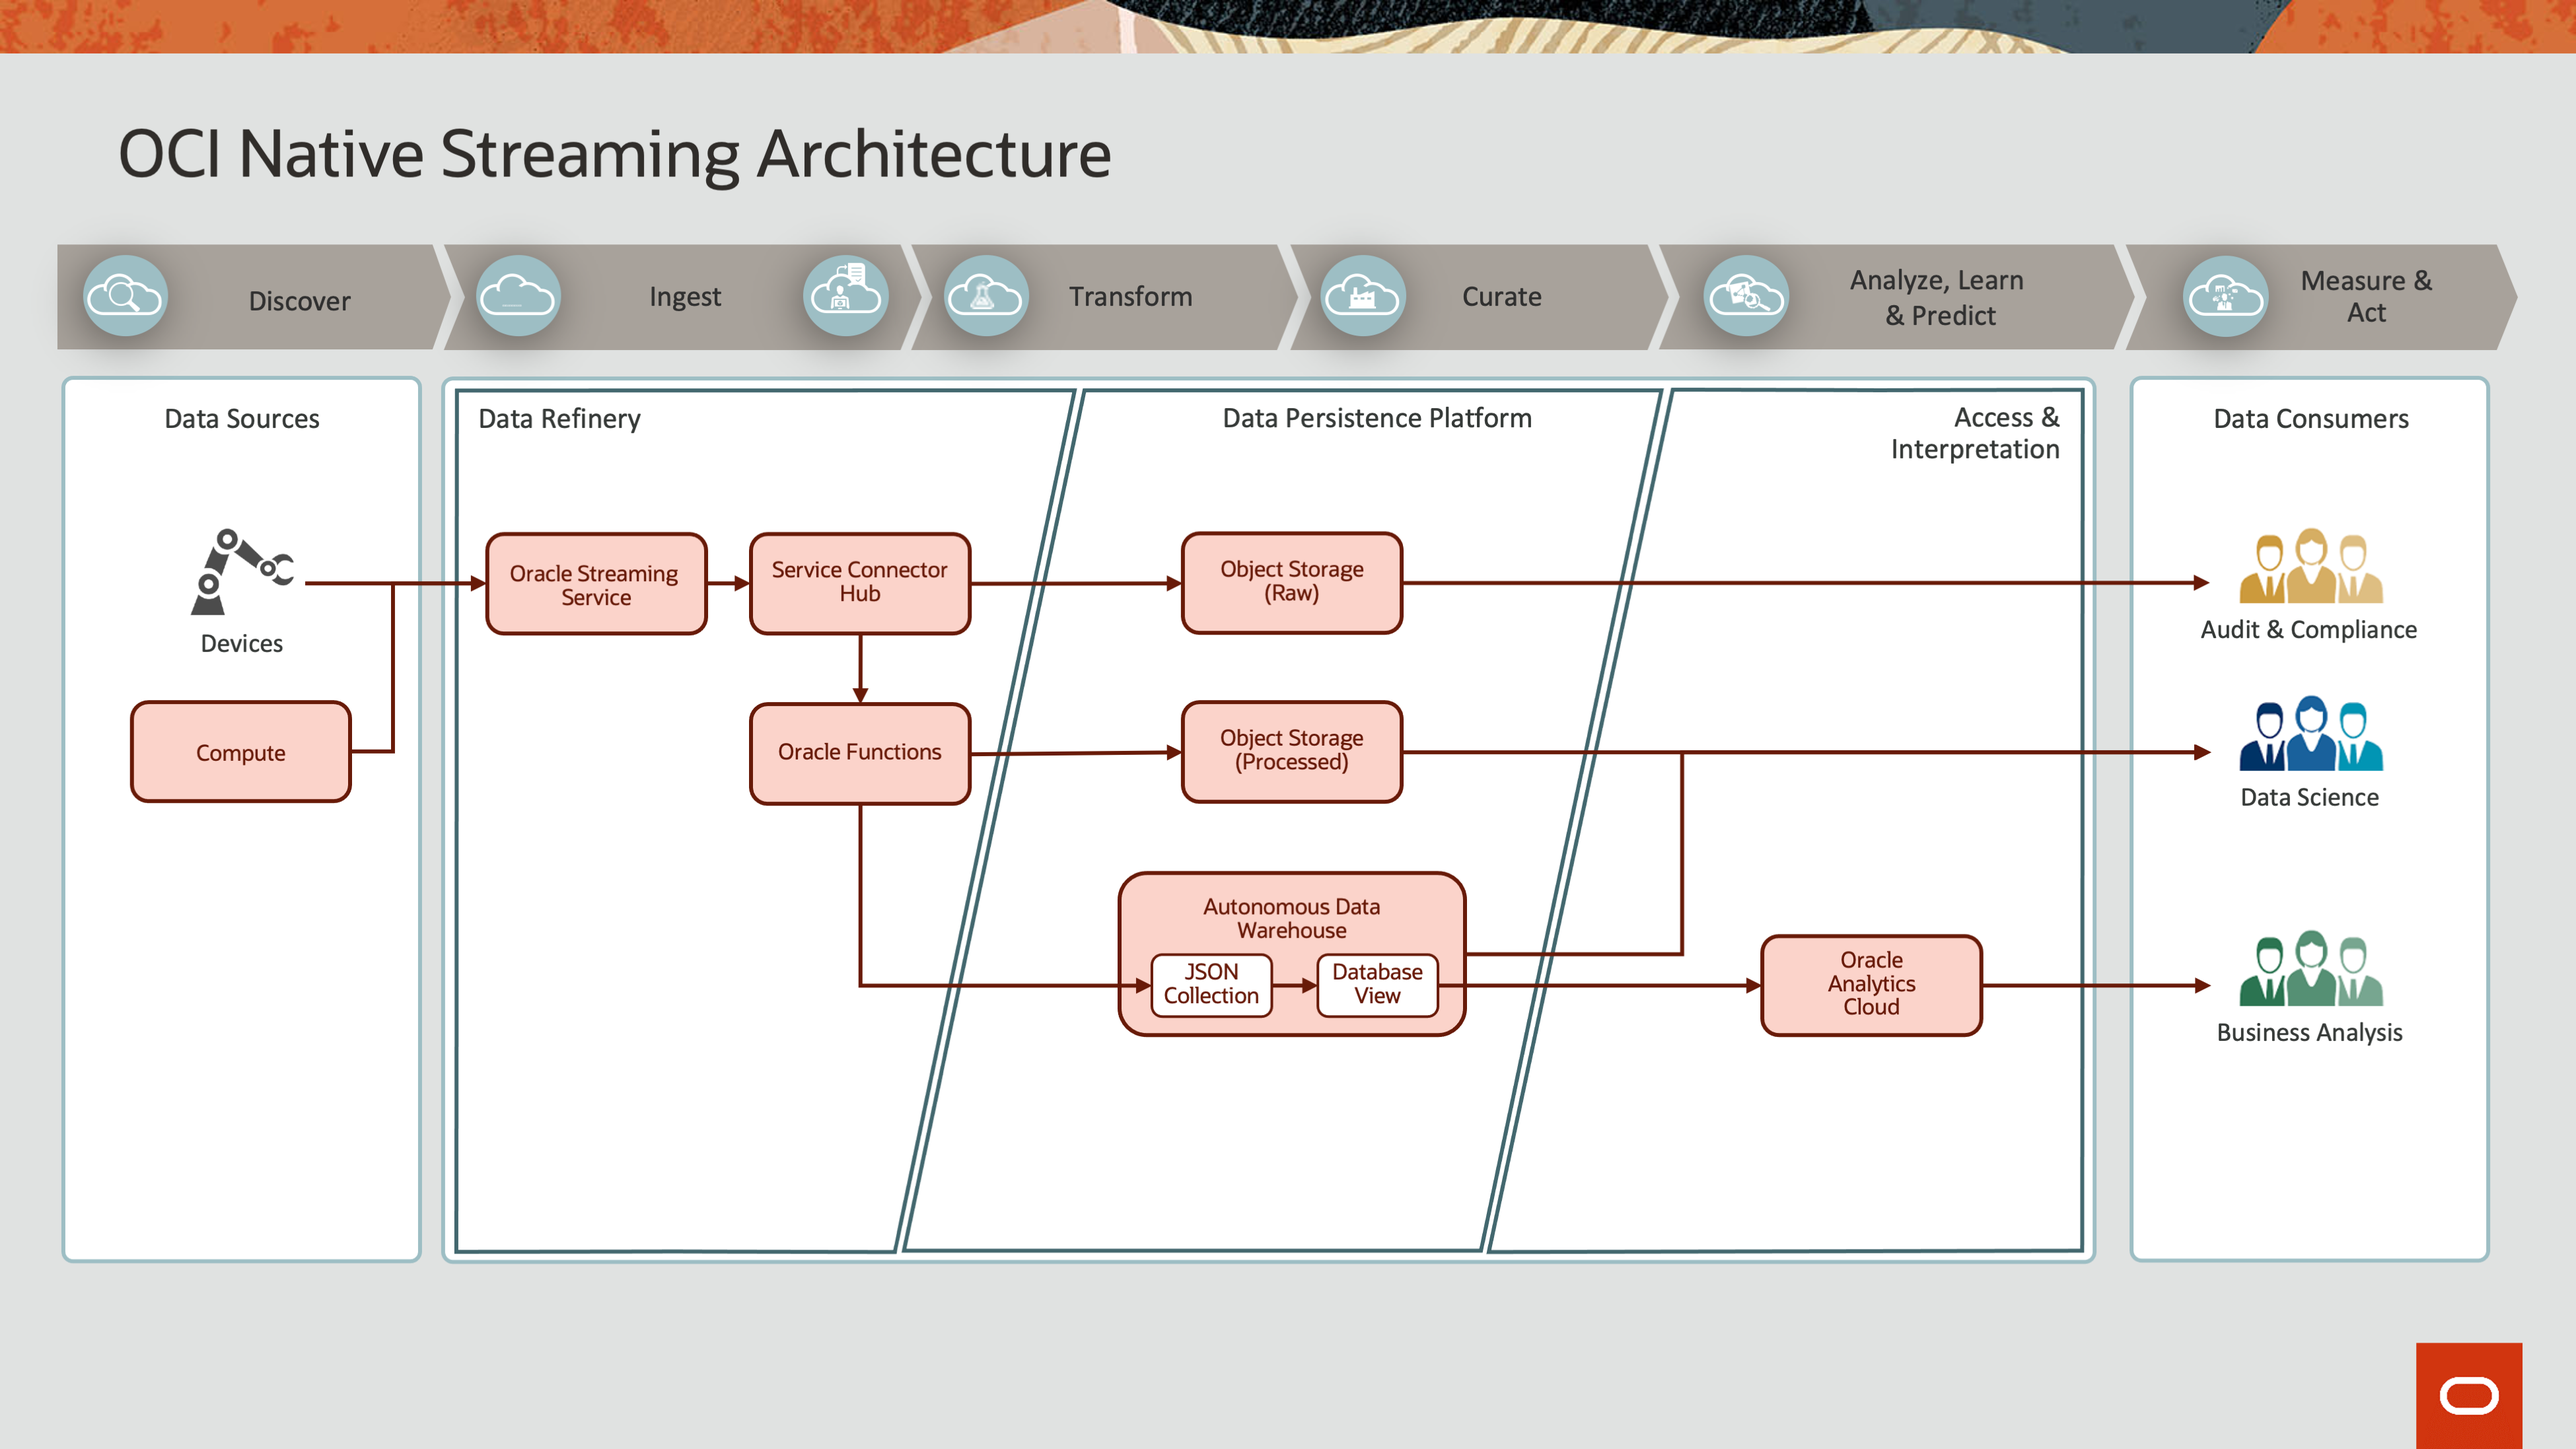
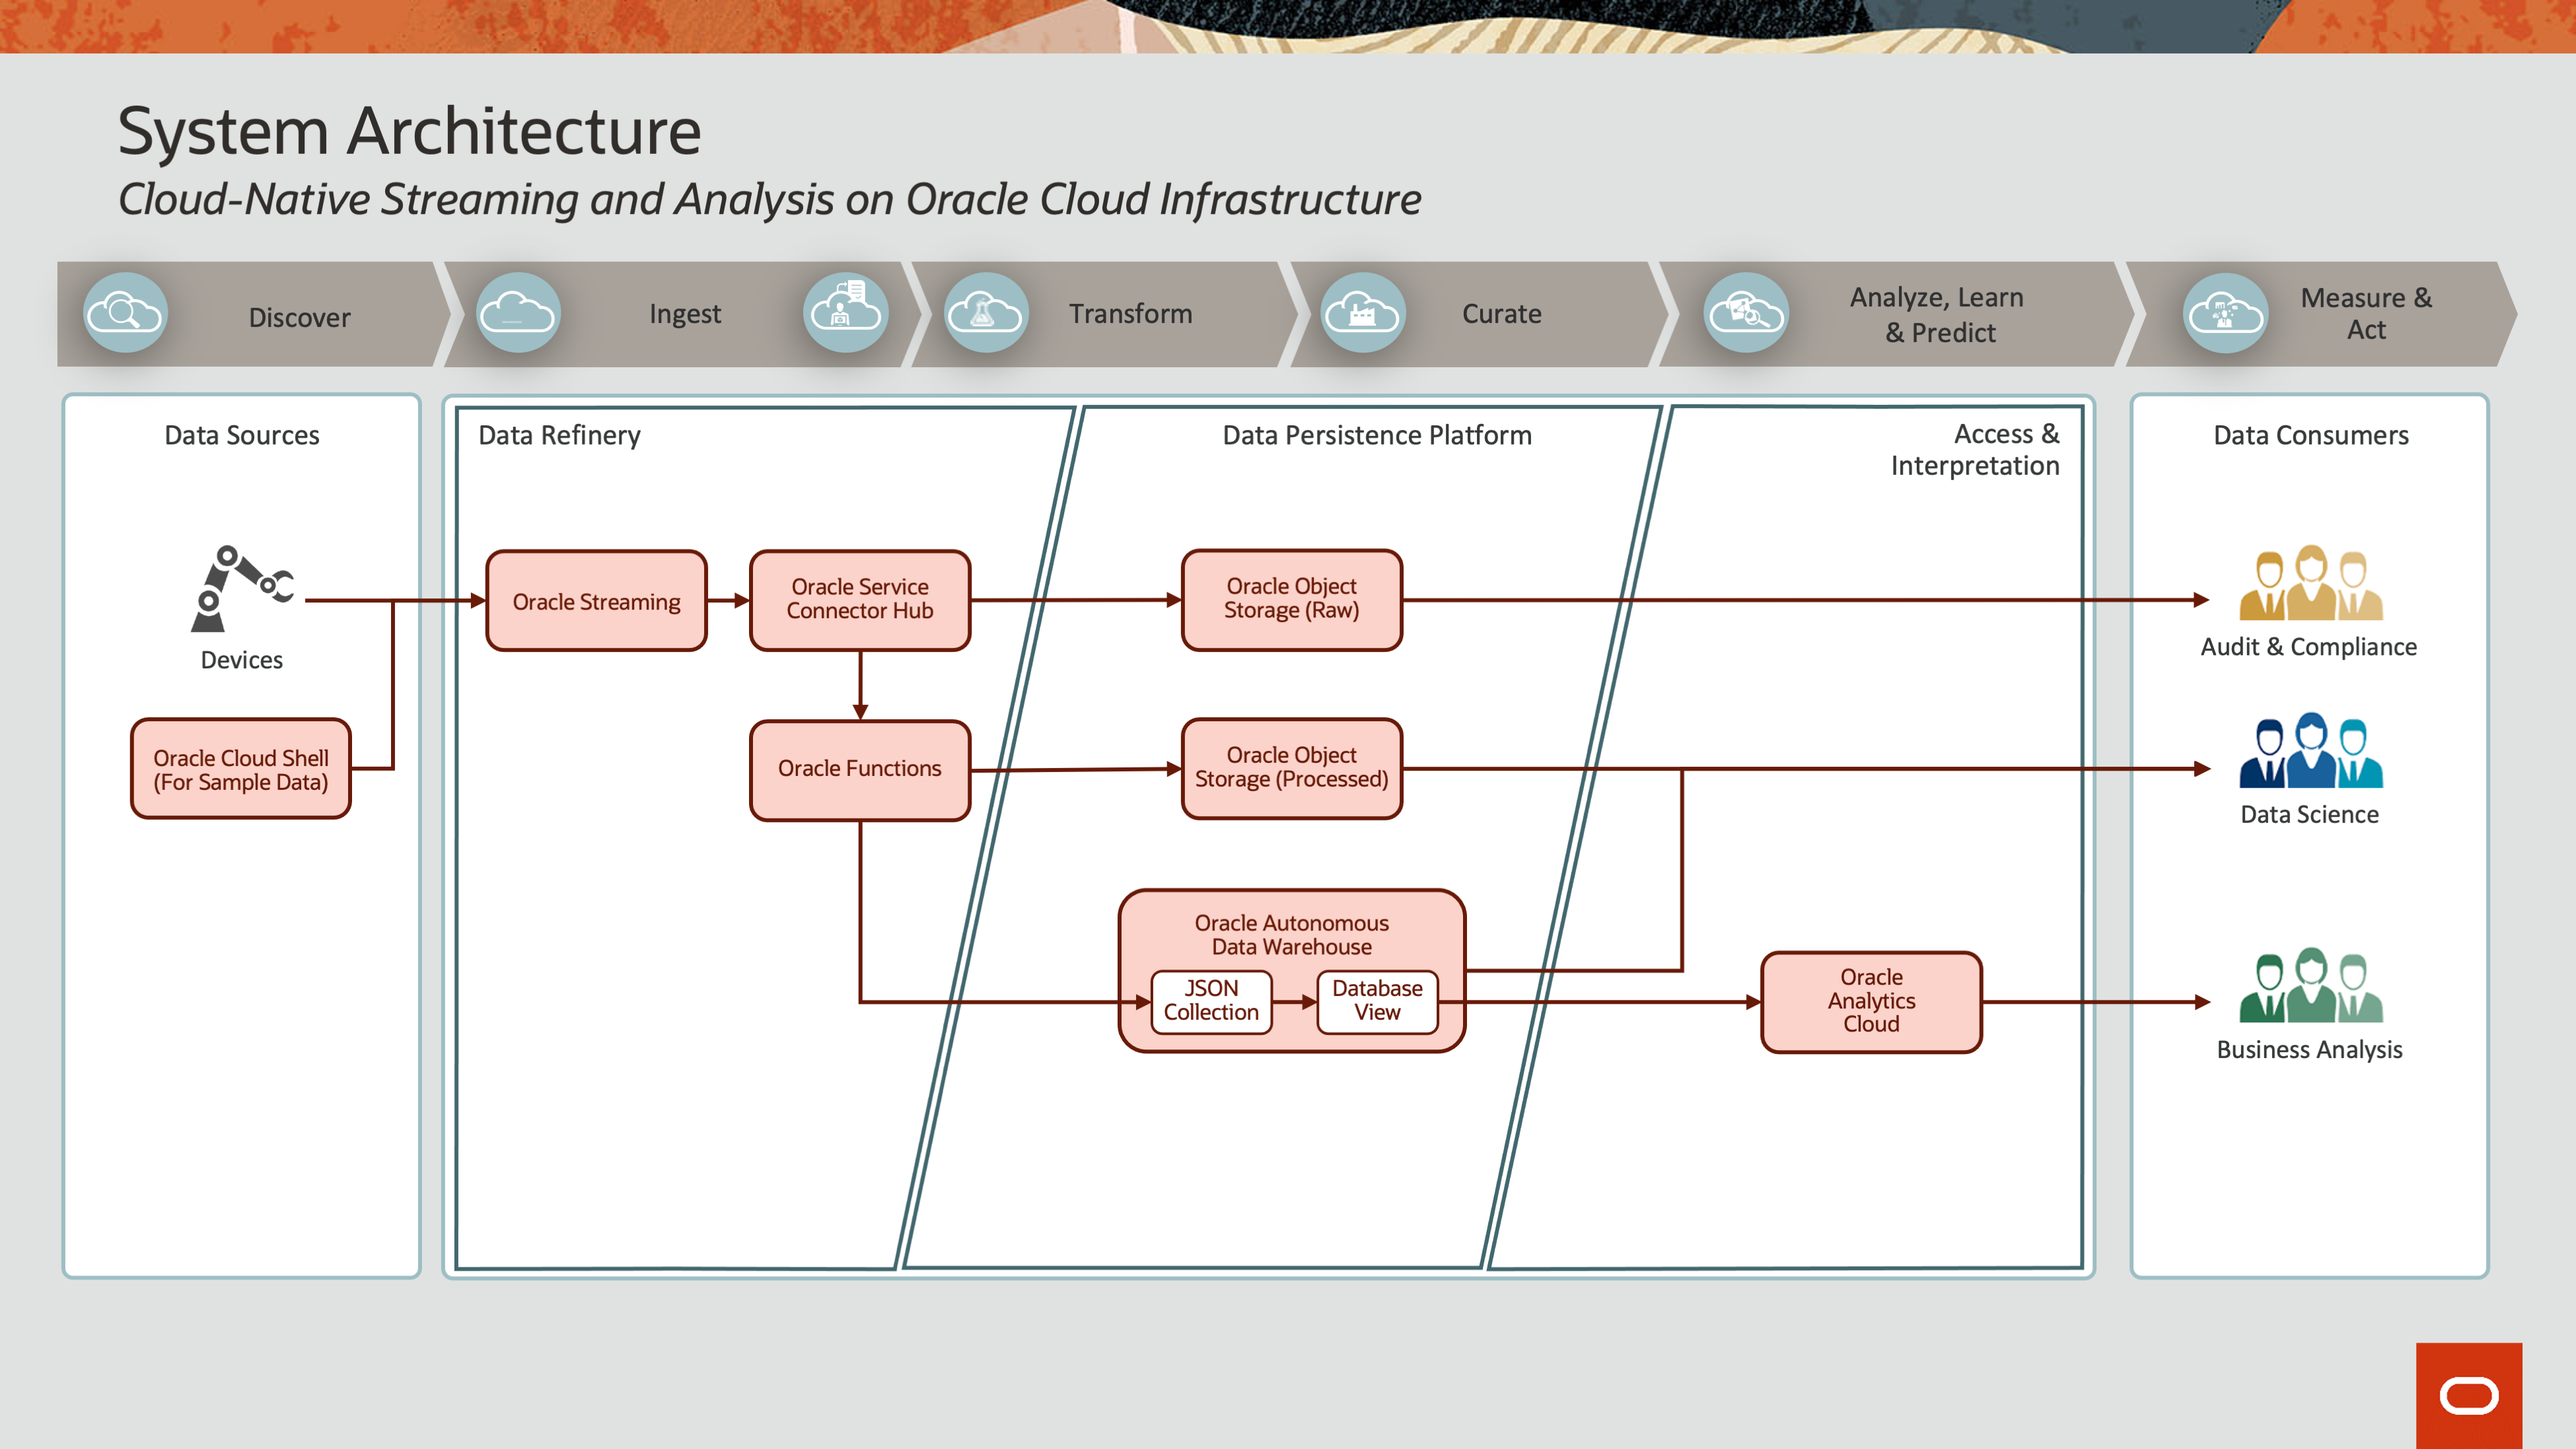
Updating architecture and readme

Changed region(s): [[0.0, 0.062, 0.9928, 0.8988]]

diff --git a/README.md b/README.md
@@ -24,10 +24,10 @@ This document provides instructions for deployment and configuration of a cloud-
 	- [Resource Cleanup](#resource-cleanup)
 
 ### Introduction
-Data streaming is a powerful tool capable of accelerating business processes and facilitating real-time decision-making across a wide variety of industries and use cases. There are many ways to implement streaming technology, and each solution offers different benefits and drawbacks. The approach documented below is a cloud-native, low-code approach to streaming, covering the complete data lifecycle from ingestion to analysis. This will enable organizations to implement a complete streaming pipeline quickly without the need to spend valuable time and energy procuring, configuring and managing IT infrastructure.
+Data streaming is a powerful tool capable of accelerating business processes and facilitating real-time decision-making across a wide variety of industries and use cases. There are many ways to implement streaming technology, and each solution offers different benefits and drawbacks. The approach documented below is a cloud-native, low-code approach to streaming, covering the complete data lifecycle from ingestion to analysis. This will enable organizations to implement a complete streaming pipeline quickly, without the need to spend valuable time and effort procuring, configuring and managing IT infrastructure.
 
 ### Objective
-This repository leverages Oracle Cloud's array of infrastructure services to deploy a low-code, end-to-end streaming pipeline. The included Terraform Stack handles resource deployment, and additional configuration steps are documented below. The resulting architecture is a cloud-native streaming pipeline, capable of data ingestion, processing, strorage, and analysis.
+This repository leverages Oracle Cloud's array of infrastructure services to deploy a low-code, end-to-end streaming pipeline. The included Terraform Stack handles resource deployment, and additional configuration steps are documented below. The resulting architecture is a cloud-native streaming pipeline, capable of data ingestion, processing, storage, and analysis.
 
 ### System Architecture
 
